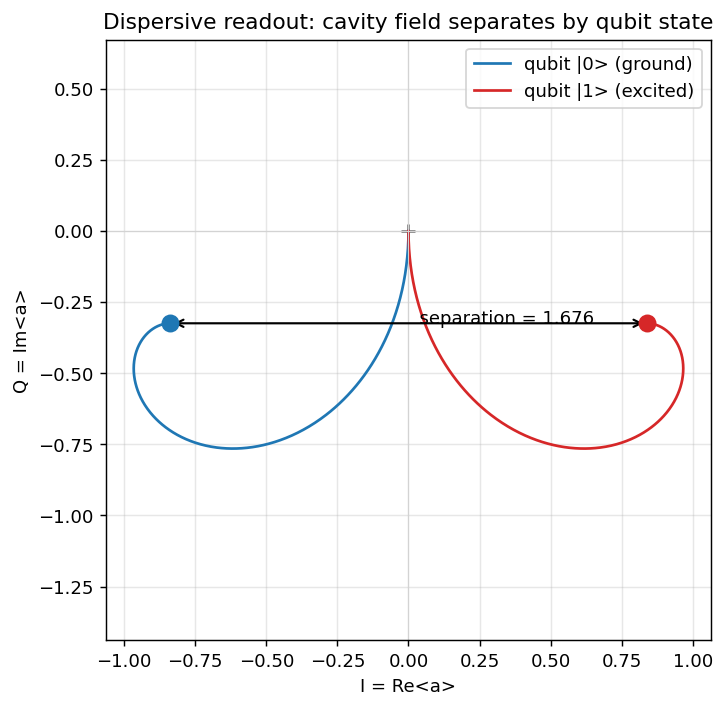
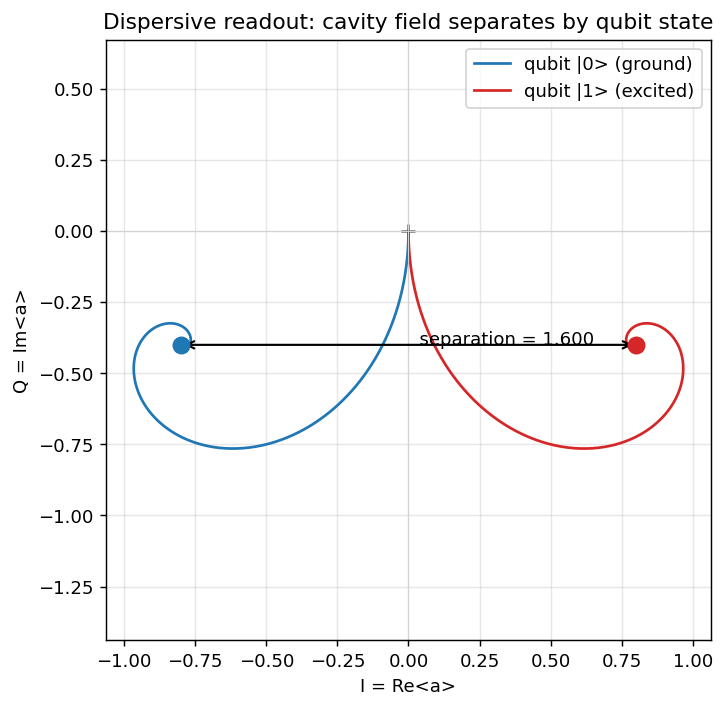
Fix dispersive lab to report exact cavity steady state
The script sampled the field at t=150us, ~2.4 envelope lifetimes (2/kappa=64us), so it printed a non-converged transient (I=+/-0.84, sep=1.68). Use steadystate() for the reported landing points and integrate the trajectory past the real settling time; now prints the exact I=+/-0.80, Q=-0.40, sep=1.60.

Changed region(s): [[0.2121, 0.4344, 0.9091, 0.4965]]

diff --git a/hands-on/04-dispersive-readout/dispersive.py b/hands-on/04-dispersive-readout/dispersive.py
@@ -24,7 +24,8 @@ Convention used throughout:
 import os
 import numpy as np
 import matplotlib.pyplot as plt
-from qutip import basis, destroy, qeye, sigmaz, tensor, mesolve, ket2dm
+from qutip import (basis, destroy, qeye, sigmaz, tensor, mesolve, ket2dm,
+                   steadystate, expect)
 
 # ---------------------------------------------------------------------------
 # Parameters (illustrative but realistic; frequencies as 2*pi*MHz, time in us)
@@ -41,10 +42,13 @@ kappa = 2 * np.pi * 0.005    # cavity decay rate, 5 MHz
 # opposite sides of the IQ plane and are maximally separated.
 delta = 0.0                  # bare cavity detuning at the symmetric point
 
-# Time grid: long enough for the cavity field to reach steady state. The cavity
-# settles on a timescale ~1/kappa, so we integrate over several such lifetimes
-# (times in microseconds).
-tlist = np.linspace(0, 150.0, 600)
+# Time grid for the trajectory plot. The coherent field amplitude relaxes as
+# exp(-(kappa/2) t), so its envelope settles on a timescale 2/kappa (here
+# 2/kappa ~ 64 us), NOT 1/kappa. We integrate well past that (several settling
+# times) so the trajectory visibly spirals in and lands on the steady state.
+# The reported landing points themselves come from the exact steady state
+# (steadystate(), below), not from the last transient sample.
+tlist = np.linspace(0, 400.0, 800)
 
 # ---------------------------------------------------------------------------
 # Operators on the joint qubit (x) cavity Hilbert space
@@ -79,10 +83,28 @@ a_g = np.asarray(res_g.expect[0])   # complex <a>(t) for qubit |0>
 a_e = np.asarray(res_e.expect[0])   # complex <a>(t) for qubit |1>
 
 # ---------------------------------------------------------------------------
-# Quantitative results: steady-state field points and their separation
+# Quantitative results: steady-state field points and their separation.
+#
+# We get the landing points from the EXACT steady state, not from a_g[-1]/
+# a_e[-1] (which would be biased by whatever transient survives at t_final).
+# Because the Hamiltonian commutes with the qubit sigmaz and the qubit has no
+# dissipation, each qubit state |0>/|1> just fixes the cavity detuning to
+# +chi/-chi. So the steady-state field is that of a single driven, damped
+# cavity mode with detuning +/- chi, which steadystate() solves directly.
 # ---------------------------------------------------------------------------
-ss_g = a_g[-1]
-ss_e = a_e[-1]
+ac = destroy(N)   # single-mode cavity operator (qubit factored out)
+
+
+def cavity_steady_field(sz_value):
+    """Exact steady-state <a> for the cavity when sigmaz = sz_value (+1 -> |0>,
+    -1 -> |1>), i.e. effective cavity detuning delta + sz_value*chi."""
+    H_cav = (delta + sz_value * chi) * ac.dag() * ac + drive * (ac + ac.dag())
+    rho_ss = steadystate(H_cav, [np.sqrt(kappa) * ac])
+    return expect(ac, rho_ss)
+
+
+ss_g = cavity_steady_field(+1.0)   # qubit |0>  (sigmaz = +1)
+ss_e = cavity_steady_field(-1.0)   # qubit |1>  (sigmaz = -1)
 separation = np.abs(ss_e - ss_g)
 
 print("Dispersive readout simulation")

diff --git a/hands-on/04-dispersive-readout/README.md b/hands-on/04-dispersive-readout/README.md
@@ -43,10 +43,14 @@ vacuum. Note the convention: `destroy(2)` is the qubit lowering operator that
 sends `|1> -> |0>`.
 
 **Solve and measure.** Two `mesolve` calls evolve each initial state while
-tracking the expectation `<a>` through `e_ops=[a]`. Because `<a>` is complex, its
-real part is the I quadrature and its imaginary part is the Q quadrature. We take
-the last time point as the steady state and report the distance between the two
-landing points.
+tracking the expectation `<a>` through `e_ops=[a]`, which gives the field
+trajectory we plot. Because `<a>` is complex, its real part is the I quadrature
+and its imaginary part is the Q quadrature. For the reported landing points we do
+**not** read off the last time sample (which would still carry whatever transient
+survives at `t_final`); we solve the exact steady state with `steadystate()`. Each
+qubit state simply fixes the cavity detuning to `+chi` or `-chi`, so the steady
+field is that of a single driven, damped cavity mode, and we report the distance
+between the two landing points.
 
 **Plot.** The script traces both `<a>(t)` curves in the IQ plane, marks the two
 steady-state points, and draws the separation arrow between them.
@@ -56,12 +60,13 @@ steady-state points, and draws the separation arrow between them.
 The script prints the chosen `chi`, `kappa`, and `drive`, then the steady-state
 field for each qubit state as `(I, Q)` coordinates and their magnitudes `|<a>|`,
 and finally the **IQ separation** between the two qubit states. With the default
-parameters the two states land at mirror-image points near `I = +/-0.84`,
-`Q = -0.32`, each with `|<a>|` about `0.90`, giving an IQ separation of roughly
-`1.68`. A larger separation means the two states are easier to distinguish in a
-single shot. Because the cavity settles on a timescale of about `1/kappa` (tens of
-microseconds here), the time grid is run out to several cavity lifetimes so the
-field truly reaches steady state.
+parameters the two states land at mirror-image points `I = +/-0.80`,
+`Q = -0.40`, each with `|<a>|` about `0.89`, giving an IQ separation of exactly
+`1.60`. A larger separation means the two states are easier to distinguish in a
+single shot. The coherent field amplitude relaxes as `exp(-(kappa/2) t)`, so its
+envelope settles on a timescale `2/kappa` (about `64` microseconds here, not
+`1/kappa`); the trajectory grid is run out to several of those settling times so
+the plotted field visibly spirals in and lands on the steady-state points.
 
 ![Dispersive readout (qubit-state-dependent cavity)](figures/dispersive.png)
 